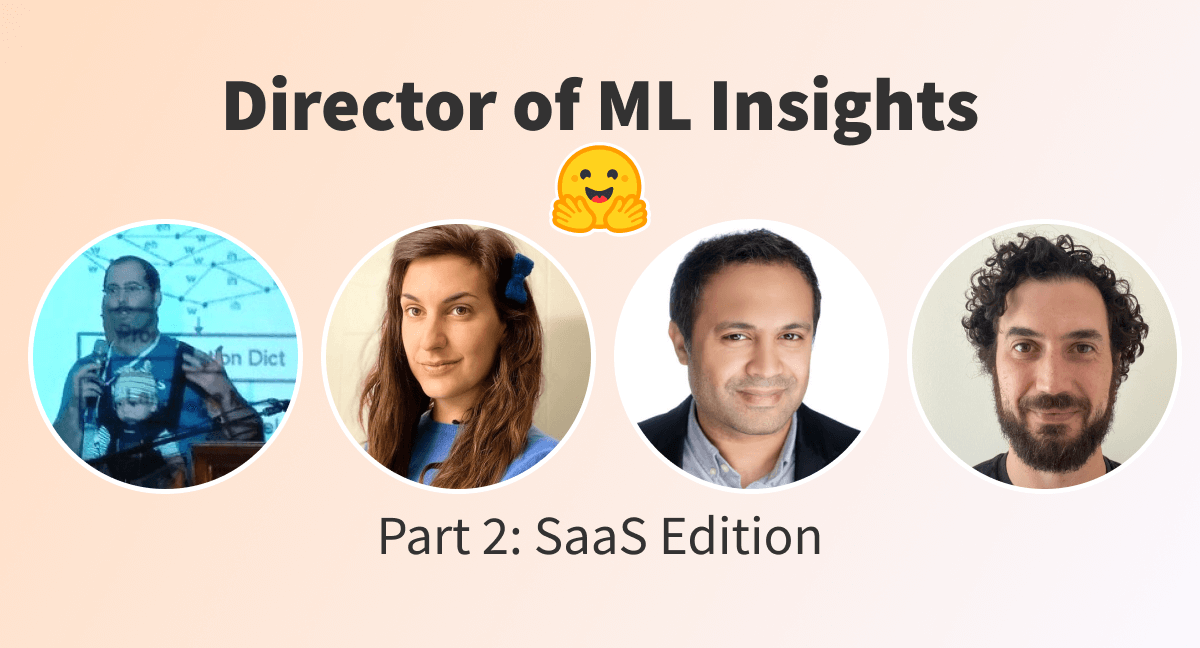
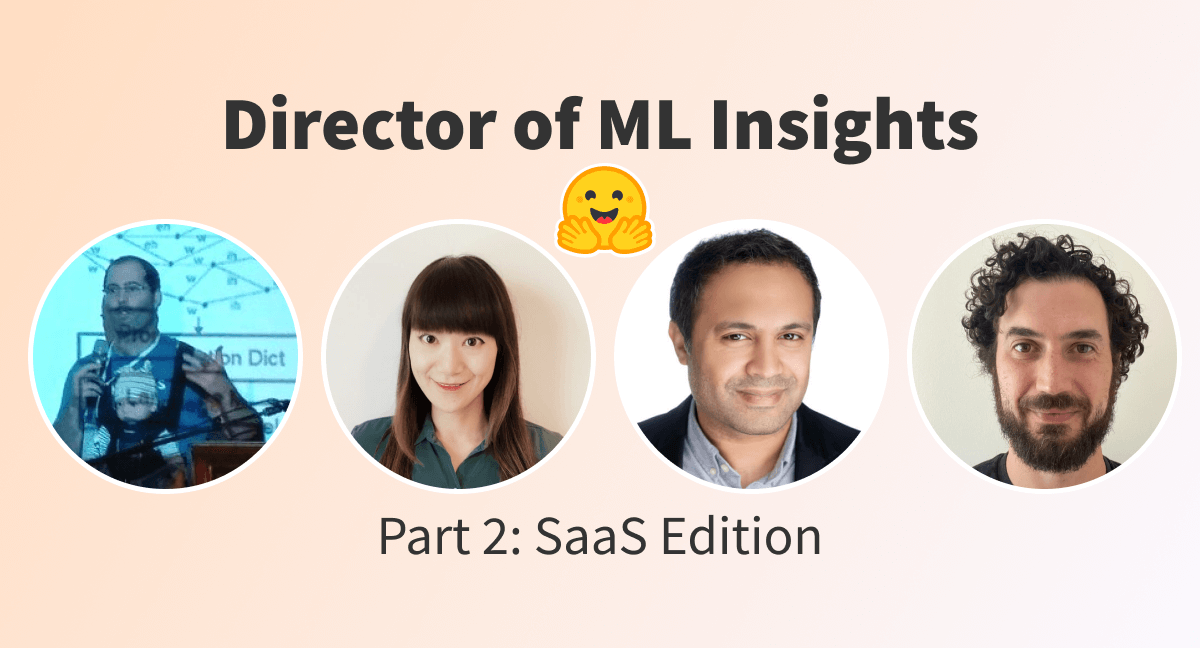
Removed Lois per her request to not be included in a SaaS specific feature

Changed region(s): [[0.185, 0.1235, 0.8325, 0.7716]]

diff --git a/ml-director-insights-2.md b/ml-director-insights-2.md
@@ -28,11 +28,11 @@ thumbnail: /blog/assets/64_ml_director_insights/thumbnail.png
 </head>
 <body>
 
-Welcome to Part 2 of our Director of Machine Learning Insights Series.
+Welcome to Part 2 of our [Director of Machine Learning Insights Series](https://huggingface.co/blog/ml-director-insights).
 
 Directors of Machine Learning have a unique seat at the AI table spanning the perspective of various roles and responsibilities. Their rich knowledge of ML frameworks, engineering, architecture, real-world applications and problem-solving provides deep insights into the current state of ML. For example, one Director will note how using new transformers speech technology decreased their team’s error rate by 30% and how simple thinking can help save _a lot_ of computational power.
 
-In this second installment, you’ll hear from an ultra-endurance cyclist with a PhD in Space Science, a chess loving Cybersecurity expert, an Entrepreneur whose business was inspired by Barbie’s need to monitor brand reputation after a lead recall, and a seasoned patent and academic paper author who enjoys watching his 4 kids make the same mistakes as his ML models.
+In this second SaaS focused installment, you’ll hear from a deep learning for healthcare Author who founded a non-profit for mentoring ML talent, a chess fanatic Cybersecurity expert, an Entrepreneur whose business was inspired by Barbie’s need to monitor brand reputation after a lead recall, and a seasoned patent and academic paper author who enjoys watching his 4 kids make the same mistakes as his ML models.  
 
 🚀  Let’s meet some top Machine Learning Directors in SaaS and hear what they have to say about Machine Learning:
 
@@ -69,35 +69,32 @@ Not focussing enough on the business context and the problem being solved, rathe
 Generalized artificial intelligence capabilities, if built and managed well, have the capability to transform humanity in more ways than one can imagine. My hope is that we will see great progress in the areas of healthcare and transportation. We already see the benefits of AI in radiology resulting in significant savings in manpower thereby enabling humans to focus on more complex tasks. Self-driving cars and trucks are already transforming the transportation sector.
 
 
-<img class="grandmahugs" style="float: left;" padding="5px" width="200" src="/blog/assets/64_ml_director_insights/Lois-Smith.jpeg"></a>  
 
-### [Lois K. Smith](https://www.linkedin.com/in/lois-k-smith/) - Director of Machine Learning at [Afresh](https://www.jnj.com/)
+<img class="grandmahugs" style="float: left;" padding="5px" width="200" src="/blog/assets/64_ml_director_insights/Cao-Danica-Xiao.jpeg"></a>  
 
-**Background:** Lois is the Director of Machine Learning at Afresh. She has a PhD in Space Science from the University of Michigan and has been working in Data Science for over 6 years. 
+### [Cao (Danica) Xiao](https://www.linkedin.com/in/caoxiao/) - Director of Machine Learning at [Amplitude](https://amplitude.com/)
 
-**Fun Fact:** In her time outside of work, she’s an ultra endurance cyclist and novelist.
+**Background:** Cao (Danica) Xiao is the Senior Director and Head of Data Science and Machine Learning at Amplitude. Her team focuses on developing and deploying self-serving machine learning models and products based on multi-sourced user data to solve critical business challenges regarding digital production analytics and optimization. Besides, she is a passionate machine learning researcher with over 95+ papers published in leading CS venues. She is also a technology leader with extensive experience in machine learning roadmap creation, team building, and mentoring. 
+
+Prior to Amplitude, Cao (Danica) was the Global Head of Machine Learning in the Analytics Center of Excellence of IQVIA. Before that, she was a research staff member at IBM Research and research lead at MIT-IBM Watson AI Lab. She got her Ph.D. degree in machine learning from the University of Washington, Seattle. Recently, she also co-authored a textbook on deep learning for healthcare and founded a non-profit organization for mentoring machine learning talents. 
+
+**Fun Fact:** Cao is a cat-lover and is a mom to two cats: one Singapura girl and one British shorthair boy.
  
-Lois is also speaking at Meta’s #WomenInAnalytics conference this year as a Technical Track Speaker.
+**Amplitude:** A cloud-based product-analytics platform that helps customers build better products.
 
-**Afresh:** An AI-powered company selling software to track demand and manage orders for fresh produce in grocery stores.
-
-#### **1. How has ML made a positive impact?**
-The biggest change I’ve seen in my career is the replacement of equations and theory with data and machine learning models instead. When I was in academia, the “data assimilated” models were somewhat scoffed at; however, it’s become clear in the past 5 years to me that ML is the rocket ship we all want to be on - it accounts for the irregularities and measurement quality issues in a way that pure theory has to be modified to fit (and then overfit).
- 
-So from weather models, medical diagnoses, faster processing times for just about anything, and reducing food waste in grocery stores, ML is a huge leap forward for predictive technology.
-
- 
-#### **2. What are the biggest ML challenges?**
-Accessibility. Right now, for small companies and 1-2 person startups, they have to hire these super expensive Data Scientists and compete with FAANG companies for hiring in order to develop and train models. It’s not feasible, and it’s a huge blocker for emerging technology and pushing the current envelope.
- 
-Not to flatter my interviewer, but I think 🤗 Hugging Face has made huge strides forward in this arena by opening up sharing between big tech and individuals who are trying to solve their specific problems (i.e. can my local bike shop leverage ML to predict demand?).
+#### **1. How has ML made a positive impact on SaaS?**
+ML plays a game-changing role in turning massive noisy machine-generated or user-generated data into answers to all kinds of business questions including personalization, prediction, recommendation, etc. It impacts a wide spectrum of industry verticals via SaaS.
 
  
-#### **3. What’s a common mistake you see people make trying to integrate ML?**
-Oh there are many! I think the big one is that ML has become a buzzword and a hammer to solve every problem. I know someone is a good product data scientist and will be an effective leader if they tell me during an interview they would use linear regression over XGBoost to solve a problem (when that’s the correct answer) because that’s a much faster and easier to debug solution. Start simple and then grow more complex as you try to augment your forecasting accuracy.
+#### **2. What are the biggest ML challenges within SaaS?**
+Lack of data for ML model training that covers a broader range of industry use cases. While being a general solution for all industry verticals, still need to figure out how to handle the vertical-specific needs arising from business, or domain shift issue that affects ML model quality.
+
+ 
+#### **3. What’s a common mistake you see people make trying to integrate ML into a SaaS product?**
+Not giving users the flexibility to incorporate their business knowledge or other human factors that are critical to business success. For example, for a self-serve product recommendation, it would be great if users could control the diversity of recommended products.
  
 #### **4. What excites you most about the future of ML?**
-I really look forward to the scale of the impact of ML. It’s exciting to already see this at work – that weather forecasts are better, delivery windows can be forecast to the hour now, cancer treatments are improving, and we can be more efficient with resources like oil and water. I love this – I love to see people live fuller and richer lives with less waste, and I think ML is the best tool in humanity’s toolbox to make huge gains here right now.
+ML has seen tremendous success. It also evolves rapidly to address the current limitations (e.g., lack of data, domain shift, incorporation of domain knowledge).
 
 
 
@@ -114,7 +111,7 @@ I really look forward to the scale of the impact of ML. It’s exciting to alrea
 #### **1. How has ML made a positive impact on SaaS**
 Machine Learning has facilitated the transcription of conversational data to help people unlock new insights and understandings. People can now easily view the things they talked about, summarized goals, takeaways, who spoke the most, who asked the best questions, what the next steps are, and more. This is incredibly useful for many interactions like email and video conferencing (which are more common now than ever).
 
-With [Chorus.ai](chorus.ai) we transcribe conversations as they are being recorded in real-time. We use an algorithm called [Wave2Vec](https://arxiv.org/abs/1904.05862) to do this. 🤗[Hugging Face recently released their own Wave2Vec](https://huggingface.co/docs/transformers/model_doc/wav2vec2) version created for training that we derived a lot of value from. This new generation of transformers speech technology is incredibly powerful, it has decreased our error rate by 30%. 
+With [Chorus.ai](chorus.ai) we transcribe conversations as they are being recorded in real-time. We use an algorithm called [Wave2Vec](https://arxiv.org/abs/1904.05862) to do this. 🤗 [Hugging Face recently released their own Wave2Vec](https://huggingface.co/docs/transformers/model_doc/wav2vec2) version created for training that we derived a lot of value from. This new generation of transformers speech technology is incredibly powerful, it has decreased our error rate by 30%. 
 
 Once we transcribe a conversation we can look into the content - this is where NLP comes in and we rely heavily on [Hugging Face Transformers](https://huggingface.co/docs/transformers/index) to allow us to depict around 20 categories of topics inside recordings and emails; for example, are we talking about pricing, signing a contract, next steps, all of these topics are sent through email or discussed and it’s easy to now extract that info without having to go back through all of your conversations. 
 
@@ -156,6 +153,7 @@ Another thing I’m really excited about is generating models! We recently worke
 
 #### **Any final thoughts?**
 –It’s challenging to put models into production. Believe data science teams need engineering embedded with them. Engineers should be part of the AI team. This will be an important structural pivot in the future.
+ 
 
 
 <img class="grandmahugs" style="float: left;" padding="5px" width="200" src="/blog/assets/64_ml_director_insights/Martin-Ostrovsky.jpeg"></a>  
@@ -207,9 +205,9 @@ I like [Google Colab](https://colab.research.google.com/). It's great for rapid 
 
 🤗   Thank you for joining us in this second installment of ML Director Insights. Stay tuned for more insights from ML Directors in Finance, Healthcare and e-Commerce. 
  
-Big thanks to Omar Rahman, Lois K. Smith, Raphael Cohen, and Martin Ostrovsky for their brilliant insights and participation in this piece. We look forward to watching each of your continued successes and will be cheering you on each step of the way. 🎉 
+Big thanks to Omar Rahman, Cao (Danica) Xiao, Raphael Cohen, and Martin Ostrovsky for their brilliant insights and participation in this piece. We look forward to watching each of your continued successes and will be cheering you on each step of the way. 🎉 
  
-Lastly, if you or your team are interested in accelerating your ML roadmap with Hugging Face Experts please visit [hf.co/support](https://huggingface.co/support?utm_source=article&utm_medium=blog&utm_campaign=ml_director_insights_2) to learn more. 
+If you or your team are interested in accelerating your ML roadmap with Hugging Face Experts please visit [hf.co/support](https://huggingface.co/support?utm_source=article&utm_medium=blog&utm_campaign=ml_director_insights_2) to learn more. 
 
 
 
